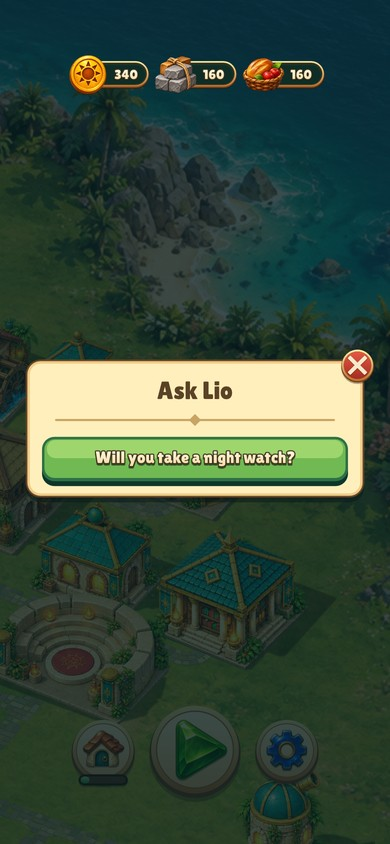
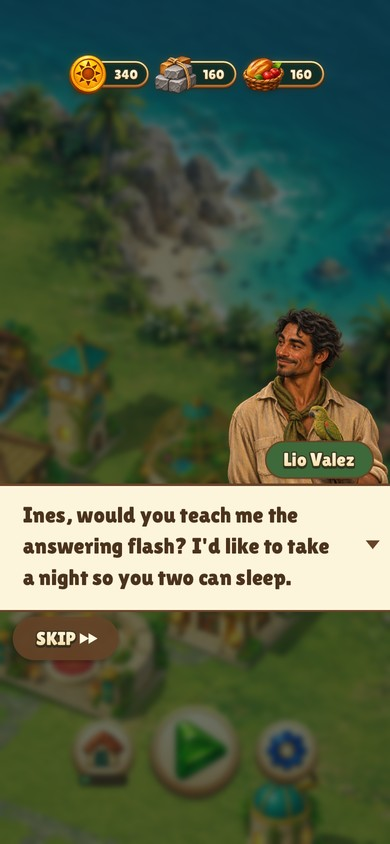
Ask a resident's last available question on tap

diff --git a/games/christmas-market/docs/story.md b/games/christmas-market/docs/story.md
@@ -813,13 +813,13 @@ Shown after the level 100 turn. The market stays open and lit behind it, with sn
 
 Once Otis and Ada have both moved in, a lost draughts button gives them an excuse for a game. Ask Otis why he keeps the dent in his tin and he tells Ada what it means to him. [First meeting](screenshots/resident-meeting.jpg) · [After asking Otis](screenshots/resident-meeting-memory.jpg)
 
-At the Station Kiosk, ask Otis how the first game went. At the Glassblower’s Stall, ask Ada about her blue button and the winning move. [Visit menu](screenshots/meeting-followup-menu.jpg) · [Resident’s answer](screenshots/meeting-followup-answer.jpg)
+At the Station Kiosk, ask Otis how the first game went. At the Glassblower’s Stall, ask Ada about her blue button and the winning move. [Direct question](screenshots/meeting-followup-direct.jpg) · [Resident’s answer](screenshots/meeting-followup-answer.jpg)
 
 Pip can ask Ada whether Otis left the double jump on purpose, or ask Otis what Ada’s two pings sounded like from his end of the board. Either answer gives Pip a reason to walk back. [Visit menu](screenshots/meeting-reply-menu.jpg) · [Resident’s reply](screenshots/meeting-reply-answer.jpg)
 
 Otis Bell brings his clock to the Station Kiosk after wish 46. Ask how he passes the time and he’ll remember whose buttons Pip chose when they wait outside Henrik’s door at wish 63.
 
-Tap the stall or its speech bubble to ask Ada a personal question or a question about the latest story checkpoint you have witnessed. Choosing a question removes it. Finishing or skipping its answer lets later conversations recall it. If you leave midway, the answer resumes when you return to town. Closing the menu before choosing keeps every question available. [Question menu](screenshots/resident-questions-480.jpg) · [First visit](screenshots/resident-visit-first.jpg) · [Later visit](screenshots/resident-visit-later.jpg)
+Tap the stall or its speech bubble to ask Ada a personal question or a question about the latest story checkpoint you have witnessed. When one question remains, tapping the building or bubble starts its exchange directly. Asking a question removes it. Finishing or skipping its answer lets later conversations recall it. If you leave midway, the answer resumes when you return to town. Closing the menu before choosing keeps every question available. [Question menu](screenshots/resident-questions-480.jpg) · [First visit](screenshots/resident-visit-first.jpg) · [Later visit](screenshots/resident-visit-later.jpg)
 
 At wish 90 Ada remembers what Noelle asked after wish 84. [Ordinary reply](screenshots/resident-memory-unasked.jpg) · [Remembered reply](screenshots/resident-memory-asked.jpg)
 

diff --git a/games/relic-rush/docs/story.md b/games/relic-rush/docs/story.md
@@ -852,13 +852,13 @@ Choice prompt: Who should answer the signal?
 
 Once Lio and Nera have both moved in, he asks her to draw his parrot for his sister. If Mara asked Nera whether she draws for fun, Lio hears about Mara’s portrait and offers his own grin. [First meeting](screenshots/resident-meeting.jpg) · [After asking Nera](screenshots/resident-meeting-memory.jpg)
 
-At the Great Aviary, ask Lio what his sister thought of the portrait. At the Cartographer’s House, ask Nera how she got the pair to sit still. [Visit menu](screenshots/meeting-followup-menu.jpg) · [Resident’s answer](screenshots/meeting-followup-answer.jpg)
+At the Great Aviary, ask Lio what his sister thought of the portrait. At the Cartographer’s House, ask Nera how she got the pair to sit still. [Direct question](screenshots/meeting-followup-direct.jpg) · [Resident’s answer](screenshots/meeting-followup-answer.jpg)
 
 Bring Lio’s account of his sister to Nera, or ask Lio about the ear Nera kept redrawing. Either exchange gives Mara something she can take back to the other resident. [Visit menu](screenshots/meeting-reply-menu.jpg) · [Resident’s reply](screenshots/meeting-reply-answer.jpg)
 
 Nera Cruz moves into the Cartographer’s House after expedition 56. Ask about the folded corner, then take a bearing with her at Cormorant Rock (67).
 
-Tap the aviary or its speech bubble to ask Lio a personal question or a question about the latest story checkpoint you have witnessed. Choosing a question removes it. Finishing or skipping its answer lets later conversations recall it. If you leave midway, the answer resumes when you return to town. Closing the menu before choosing keeps every question available. [Question menu](screenshots/resident-questions-480.jpg) · [First visit](screenshots/resident-visit-first.jpg) · [Later visit](screenshots/resident-visit-later.jpg)
+Tap the aviary or its speech bubble to ask Lio a personal question or a question about the latest story checkpoint you have witnessed. When one question remains, tapping the building or bubble starts its exchange directly. Asking a question removes it. Finishing or skipping its answer lets later conversations recall it. If you leave midway, the answer resumes when you return to town. Closing the menu before choosing keeps every question available. [Question menu](screenshots/resident-questions-480.jpg) · [First visit](screenshots/resident-visit-first.jpg) · [Later visit](screenshots/resident-visit-later.jpg)
 
 At expedition 91 Lio remembers what Mara asked after expedition 85. [Ordinary reply](screenshots/resident-memory-unasked.jpg) · [Remembered reply](screenshots/resident-memory-asked.jpg)
 

diff --git a/games/christmas-market/docs/asset-catalogue.md b/games/christmas-market/docs/asset-catalogue.md
@@ -767,6 +767,6 @@ The Station Kiosk introduces **Otis Bell**. The speaking and listening states sh
 
 ## Unheard resident visit
 
-The Glassblower’s Stall displays a three-dot speech bubble when Ada has new dialogue. The shared town screen anchors the existing `story.bubble_shape` to the live roof position and draws the dots with the town skin. This is a live UI element. It appears after the introduction and after a newly witnessed story checkpoint, and hides during dialogue, placement and overlays. The visit menu uses the existing town popup and buttons. Each question is available once. After the last question, the bubble clears and a tap shows the building description. Reproduce both phone captures with `build/test/all --suite=christmas-market "shot unheard-visit"`. [480 × 900](review/resident-markers/unheard-visit-480-after.jpg) · [390 × 844](review/resident-markers/unheard-visit-390-after.jpg)
+The Glassblower’s Stall displays a three-dot speech bubble when Ada has new dialogue. The shared town screen anchors the existing `story.bubble_shape` to the live roof position and draws the dots with the town skin. This is a live UI element. It appears after the introduction and after a newly witnessed story checkpoint, and hides during dialogue, placement and overlays. Tapping the building or bubble asks a sole remaining question directly. Multiple questions open the existing town popup. Each question is available once. After the last question, the bubble clears and a tap shows the building description. Reproduce both phone captures with `build/test/all --suite=christmas-market "shot unheard-visit"`. [480 × 900](review/resident-markers/unheard-visit-480-after.jpg) · [390 × 844](review/resident-markers/unheard-visit-390-after.jpg)
 
-Capture the question menu with the same command filtered to "shot resident-questions". [First questions](screenshots/resident-questions-480.jpg) · [One answer heard](screenshots/resident-questions-390.jpg)
+Capture the question menu with the same command filtered to "shot resident-questions". [First questions](screenshots/resident-questions-480.jpg) · [Last question starts directly](screenshots/resident-questions-390.jpg)

diff --git a/games/relic-rush/docs/asset-catalogue.md b/games/relic-rush/docs/asset-catalogue.md
@@ -1183,6 +1183,6 @@ The Cartographer’s House introduces **Nera Cruz**. The speaking and listening 
 
 ## Unheard resident visit
 
-The Great Aviary displays a three-dot speech bubble when Lio has new dialogue. The shared town screen anchors the existing `story.bubble_shape` to the live roof position and draws the dots with the town skin. This is a live UI element. It appears after the introduction and after a newly witnessed story checkpoint, and hides during dialogue, placement and overlays. The visit menu uses the existing town popup and buttons. Each question is available once. After the last question, the bubble clears and a tap shows the building description. Reproduce both phone captures with `build/test/all --suite=relic-rush "shot unheard-visit"`. [480 × 900](review/resident-markers/unheard-visit-480-after.jpg) · [390 × 844](review/resident-markers/unheard-visit-390-after.jpg)
+The Great Aviary displays a three-dot speech bubble when Lio has new dialogue. The shared town screen anchors the existing `story.bubble_shape` to the live roof position and draws the dots with the town skin. This is a live UI element. It appears after the introduction and after a newly witnessed story checkpoint, and hides during dialogue, placement and overlays. Tapping the building or bubble asks a sole remaining question directly. Multiple questions open the existing town popup. Each question is available once. After the last question, the bubble clears and a tap shows the building description. Reproduce both phone captures with `build/test/all --suite=relic-rush "shot unheard-visit"`. [480 × 900](review/resident-markers/unheard-visit-480-after.jpg) · [390 × 844](review/resident-markers/unheard-visit-390-after.jpg)
 
-Capture the question menu with the same command filtered to "shot resident-questions". [First questions](screenshots/resident-questions-480.jpg) · [One answer heard](screenshots/resident-questions-390.jpg)
+Capture the question menu with the same command filtered to "shot resident-questions". [First questions](screenshots/resident-questions-480.jpg) · [Last question starts directly](screenshots/resident-questions-390.jpg)

diff --git a/games/christmas-market/README.md b/games/christmas-market/README.md
@@ -130,7 +130,7 @@ The 100 playable wishes run through five Advents. Ten stalls carry the story (We
 
 Otis Bell brings his clock to the Station Kiosk after wish 46. Ask how he passes the time and he’ll remember whose buttons Pip chose when they wait outside Henrik’s door at wish 63.
 
-Ada Pike arrives from across the lake when the Glassblower’s stall opens. She returns at wishes 74, 84, 89 and 90. Tap the stall to visit Ada after the introduction. Tap the roof bubble or the building to choose what to ask Ada. Each of six story milestones offers a personal question and a question about recent events, including a final pair after the finale. Each question disappears when you ask it. Once you’ve asked everything, the roof bubble clears until a new question opens. At wish 90 Ada remembers the cue she and Noelle agreed on at the stall.
+Ada Pike arrives from across the lake when the Glassblower’s stall opens. She returns at wishes 74, 84, 89 and 90. Tap the stall to visit Ada after the introduction. Tap the roof bubble or the building to choose what to ask Ada. Each of six story milestones offers a personal question and a question about recent events, including a final pair after the finale. If one question remains, tapping the building or its speech bubble asks it immediately. With two or more, you choose. Each question disappears when you ask it. Once you’ve asked everything, the roof bubble clears until a new question opens. At wish 90 Ada remembers the cue she and Noelle agreed on at the stall.
 
 Once Otis and Ada have both moved in, a lost draughts button gives them an excuse for a game. Ask Otis why he keeps the dent in his tin and he tells Ada what it means to him.
 

diff --git a/games/relic-rush/README.md b/games/relic-rush/README.md
@@ -173,7 +173,7 @@ The speaker’s name tag and the Skip button sit equally far from the dialogue b
 
 Nera Cruz moves into the Cartographer’s House after expedition 56. Ask about the folded corner, then take a bearing with her at Cormorant Rock (67).
 
-Lio Valez moves down from the hills when the Great Aviary opens. He returns on expeditions 85, 91 and 92. Tap the aviary to visit Lio after the introduction. Tap the roof bubble or the building to choose what to ask Lio. Each of six story milestones offers a personal question and a question about recent events, including a final pair after the finale. Each question disappears when you ask it. Once you’ve asked everything, the roof bubble clears until a new question opens. On expedition 91 Lio remembers Mara asking about his snore at the aviary.
+Lio Valez moves down from the hills when the Great Aviary opens. He returns on expeditions 85, 91 and 92. Tap the aviary to visit Lio after the introduction. Tap the roof bubble or the building to choose what to ask Lio. Each of six story milestones offers a personal question and a question about recent events, including a final pair after the finale. If one question remains, tapping the building or its speech bubble asks it immediately. With two or more, you choose. Each question disappears when you ask it. Once you’ve asked everything, the roof bubble clears until a new question opens. On expedition 91 Lio remembers Mara asking about his snore at the aviary.
 
 Once Lio and Nera have both moved in, he asks her to draw his parrot for his sister. If Mara asked Nera whether she draws for fun, Lio hears about Mara’s portrait and offers his own grin.
 

diff --git a/docs/PORTRAIT_GAMES.md b/docs/PORTRAIT_GAMES.md
@@ -124,7 +124,9 @@ opening question and a question based on what the other resident told the player
 Either answer from the other building can supply that detail, so write both versions
 to establish it. Read the conversation in both directions, including the trip back.
 Give each reply something fresh, and let the question label use only what the visitor
-already knows. Each question can be asked once. Selecting it removes it from the menu
+already knows. Tapping either the building or its roof bubble asks a lone remaining
+question immediately. Two or more available questions open the menu. Each question
+can be asked once. Asking it removes it from the menu
 and saves the pending answer. On returning to town, an interrupted answer plays again
 without another selection. Finishing it or pressing Skip records the memory and unlocks
 any related questions. When all questions are gone, tapping the building shows its
